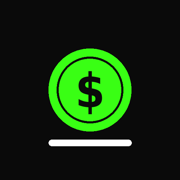
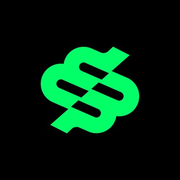
Diseño

Changed region(s): [[0.2222, 0.25, 0.7778, 0.8333]]

diff --git a/index.html b/index.html
@@ -3,7 +3,7 @@
 <head>
 <meta charset="utf-8">
 <meta name="viewport" content="width=device-width, initial-scale=1, viewport-fit=cover">
-<title>Mis gastos</title>
+<title>Money Club</title>
 <meta name="theme-color" content="#FFFFFF">
 <meta name="description" content="Registro semanal de gastos">
 <link rel="manifest" href="manifest.webmanifest">
@@ -11,7 +11,7 @@
 <link rel="apple-touch-icon" href="icons/apple-touch-icon.png">
 <meta name="apple-mobile-web-app-capable" content="yes">
 <meta name="mobile-web-app-capable" content="yes">
-<meta name="apple-mobile-web-app-title" content="Mis gastos">
+<meta name="apple-mobile-web-app-title" content="Money Club">
 <meta name="apple-mobile-web-app-status-bar-style" content="default">
 <link rel="preconnect" href="https://fonts.googleapis.com">
 <link rel="preconnect" href="https://fonts.gstatic.com" crossorigin>
@@ -19,9 +19,9 @@
 <style>
 :root{
   --paper:#FFFFFF; --sheet:#F3F5F3; --ink:#0A0A0A; --muted:#5A615B; --line:#DCE1DC;
-  --gold:#39FF14; --gold-soft:#E6FFDF; --red:#D7263D; --green:#1E9E2C;
+  --gold:#02FF68; --gold-soft:#E6FFDF; --red:#D7263D; --green:#1E9E2C;
   --black:#0A0A0A; --on-black:#FFFFFF; --on-black-muted:#A7B1A8;
-  --glow:0 0 18px rgba(57,255,20,.45);
+  --glow:0 0 18px rgba(2,255,104,.45);
   color-scheme:light;
   box-sizing:border-box;
   padding-top:env(safe-area-inset-top,0px);
@@ -128,10 +128,10 @@ body.locked .lock{display:flex}
 <div class="lock" id="lock">
   <div class="lock-in">
     <img src="icons/icon-192.png" alt="">
-    <h1>Mis gastos</h1>
+    <h1>Money Club</h1>
     <p id="lockMsg">Cargando…</p>
     <input class="pin" id="pin" type="password" inputmode="numeric" pattern="[0-9]*" maxlength="8" autocomplete="off" aria-label="PIN">
-    <input class="pin" id="pin2" type="password" inputmode="numeric" pattern="[0-9]*" maxlength="8" autocomplete="off" aria-label="Confirma tu PIN" placeholder="Confirma" hidden>
+    <input class="pin" id="pin2" type="password" inputmode="numeric" pattern="[0-9]*" maxlength="4" autocomplete="off" aria-label="Confirma tu PIN" placeholder="Confirma" hidden>
     <button class="btn" id="unlockBtn">Desbloquear</button>
     <p class="err" id="lockErr" role="alert"></p>
     <button class="linkbtn" id="forgot" hidden>Olvidé mi PIN</button>
@@ -220,8 +220,8 @@ body.locked .lock{display:flex}
   <div class="sec-grid">
     <label style="font-weight:600;margin-top:14px" for="curPin">Cambiar PIN</label>
     <input id="curPin" type="password" inputmode="numeric" maxlength="8" autocomplete="off" placeholder="PIN actual">
-    <input id="newPin" type="password" inputmode="numeric" maxlength="8" autocomplete="off" placeholder="PIN nuevo (6 a 8 dígitos)">
-    <input id="newPin2" type="password" inputmode="numeric" maxlength="8" autocomplete="off" placeholder="Confirma el PIN nuevo">
+    <input id="newPin" type="password" inputmode="numeric" maxlength="4" autocomplete="off" placeholder="PIN nuevo (4 dígitos)">
+    <input id="newPin2" type="password" inputmode="numeric" maxlength="4" autocomplete="off" placeholder="Confirma el PIN nuevo">
     <button class="btn" id="chgPin">Cambiar PIN</button>
   </div>
   <p class="err" id="sErr" role="status"></p>
@@ -418,8 +418,9 @@ function writeFails(f){try{localStorage.setItem(FAILS,JSON.stringify(f))}catch(e
 function showLock(){
   document.body.classList.add("locked");
   const create=mode==="create";
-  $("lockMsg").textContent=create?"Crea un PIN de 6 a 8 dígitos para proteger tus datos.":"Escribe tu PIN para entrar.";
+  $("lockMsg").textContent=create?"Crea un PIN de 4 dígitos para proteger tus datos.":"Escribe tu PIN para entrar.";
   $("pin").placeholder=create?"PIN nuevo":"PIN";
+  $("pin").maxLength=create?4:8;
   $("pin2").hidden=!create;
   $("unlockBtn").textContent=create?"Crear PIN":"Desbloquear";
   $("forgot").hidden=create;
@@ -442,7 +443,7 @@ async function submitPin(){
   const pin=$("pin").value.trim();
   $("lockErr").textContent="";
   if(mode==="create"){
-    if(!/^\d{6,8}$/.test(pin)){$("lockErr").textContent="El PIN debe tener de 6 a 8 números.";return}
+    if(!/^\d{4}$/.test(pin)){$("lockErr").textContent="El PIN debe tener 4 números.";return}
     if(pin!==$("pin2").value.trim()){$("lockErr").textContent="Los PIN no coinciden.";return}
   }else{
     const f=readFails();
@@ -502,7 +503,7 @@ $("lockNow").onclick=lock;
 $("chgPin").onclick=async()=>{
   const cur=$("curPin").value.trim(),n1=$("newPin").value.trim(),n2=$("newPin2").value.trim();
   $("sErr").textContent="";
-  if(!/^\d{6,8}$/.test(n1)){$("sErr").textContent="El PIN nuevo debe tener de 6 a 8 números.";return}
+  if(!/^\d{4}$/.test(n1)){$("sErr").textContent="El PIN nuevo debe tener 4 números.";return}
   if(n1!==n2){$("sErr").textContent="Los PIN nuevos no coinciden.";return}
   $("chgPin").disabled=true;$("chgPin").textContent="Cambiando…";
   try{
@@ -523,7 +524,7 @@ $("exp").onclick=async()=>{
   if(!v){$("bErr").textContent="Aún no hay datos para respaldar.";return}
   const blob=new Blob([v],{type:"application/json"});
   const a=document.createElement("a");a.href=URL.createObjectURL(blob);
-  a.download="mis-gastos-"+new Date().toISOString().slice(0,10)+".json";
+  a.download="money-club-"+new Date().toISOString().slice(0,10)+".json";
   document.body.append(a);a.click();a.remove();setTimeout(()=>URL.revokeObjectURL(a.href),1000);
   $("bErr").textContent="Respaldo cifrado descargado.";
 };
@@ -543,7 +544,7 @@ $("imp").onchange=async()=>{
     if(!confirm("Esto reemplaza tus datos actuales con los del respaldo. ¿Continuar?")){$("imp").value="";return}
     state=Object.assign(DEFAULT_STATE(),d);
     await persist();render();$("bErr").textContent="Respaldo restaurado.";
-  }catch(e){$("bErr").textContent="Ese archivo no es un respaldo válido de Mis gastos."}
+  }catch(e){$("bErr").textContent="Ese archivo no es un respaldo válido de Money Club."}
   $("imp").value="";
 };
 

diff --git a/sw.js b/sw.js
@@ -1,5 +1,5 @@
 // Cambia la versión cada vez que actualices los archivos para que el celular descargue lo nuevo.
-const VERSION = "mis-gastos-v4";
+const VERSION = "mis-gastos-v5";
 const CORE = ["./", "./index.html", "./manifest.webmanifest",
   "./icons/icon-192.png", "./icons/icon-512.png", "./icons/apple-touch-icon.png"];
 

diff --git a/LEEME.md b/LEEME.md
@@ -1,4 +1,4 @@
-# Mis gastos (PWA)
+# Money Club (PWA)
 
 ## Publicar gratis en GitHub Pages
 1. Crea un repositorio público en GitHub, por ejemplo `mis-gastos`.
